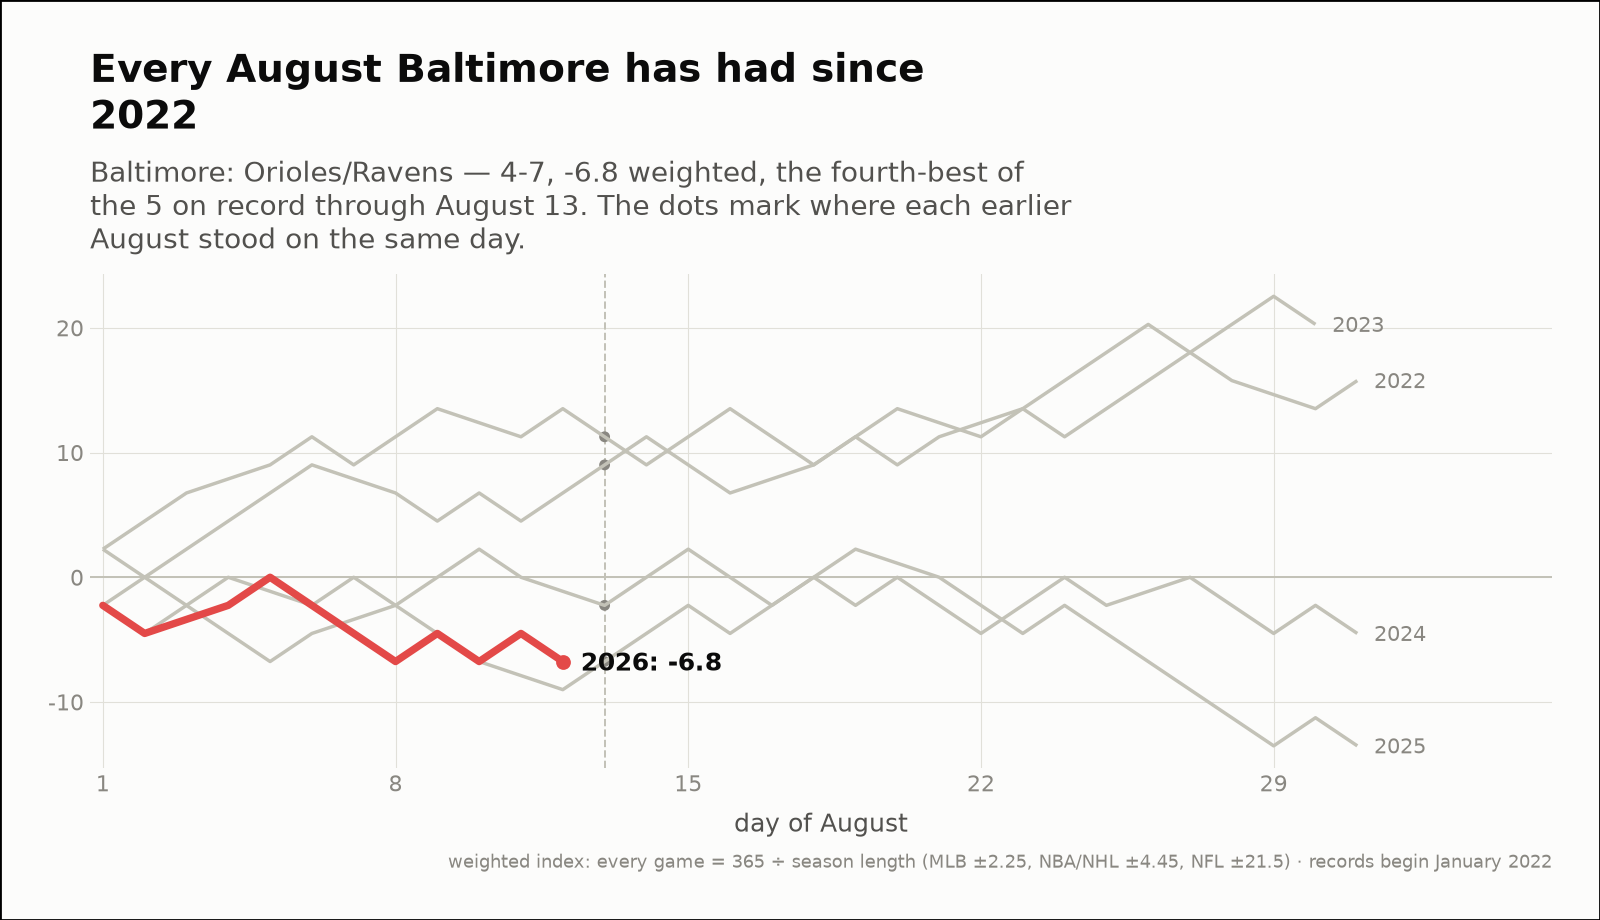
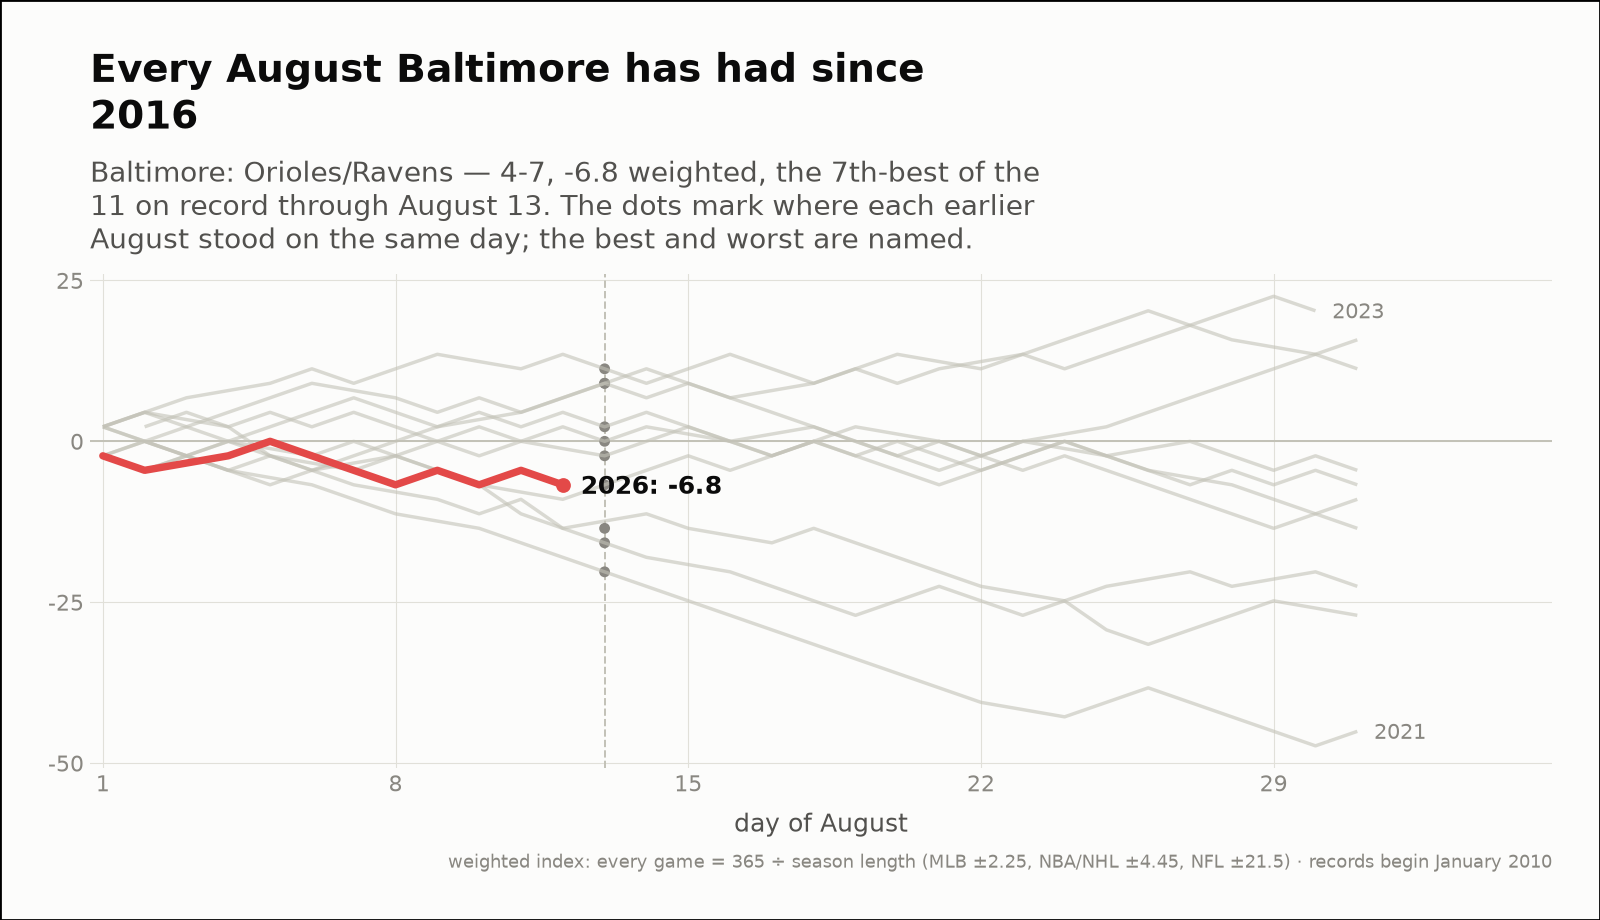
Reach the daily comparison charts back ten years, not to 2022
The scrapers have been writing since 2010 — 86,766 games across all four
leagues, complete except for the real interruptions (the 2011 NBA and
2012 NHL lockouts, the 2020 COVID seasons) — but season.png and month.png
only ever looked back to a hardcoded 2022, and every chart in the repo
carried a caption saying "records begin January 2022", which was simply
false. Both charts now use a rolling ten-year window off the reference
date, and the caption says 2010.

Ten gray lines needed two things the four did not:

    - year labels collide into unreadable overprints at the right edge
      (2015 and 2017 literally drew on top of each other), so past four
      past-years only the best and worst finishers are named. They bound
      the field, and the subtitle now says so rather than leaving a reader
      wondering why most of the gray is anonymous
    - a ten-line field competes with the line the chart is about, so it
      drops to 0.6 alpha once crowded. Four or fewer keep the old solid
      treatment and every label

The window is a rolling ten years off ref, not a new constant year, so it
does not quietly shorten as seasons pass. Checked that no group's draw
qualification changes between the four- and ten-year windows (0 of 88), so
replaying any past date still reproduces the city it published.

Leaves the weekly spotlight and streakiness charts on their own 2022 start:
those feed percentile claims and "best month on record" language, so
[…]

diff --git a/content/posts/2026-08-13/daily.html b/content/posts/2026-08-13/daily.html
@@ -41,11 +41,11 @@
       <dl>
         <div><dt>2026 so far</dt><dd>58-64, -32.7 weighted over 122 games; longest run 7 straight wins</dd></div>
         <div><dt>Order of results</dt><dd>about as clumped as coin flips (+0.2)</dd></div>
-        <div><dt>Earlier seasons (full-year weighted)</dt><dd>2022 +73.4, 2023 +233.7, 2024 +147.9, 2025 -5.6</dd></div>
+        <div><dt>Earlier seasons (full-year weighted)</dt><dd>2016 +33.8, 2017 -5.6, 2018 -67.3, 2019 +114.5, 2020 +63.4, 2021 -87.7, 2022 +73.4, 2023 +233.7, 2024 +147.9, 2025 -5.6</dd></div>
         <div><dt>Last 30 days</dt><dd>12-12, +0.0 weighted; longest run 3 straight wins</dd></div>
         <div><dt>Window opens</dt><dd>July 17, 2026</dd></div>
-        <div><dt>August 2026 through day 13</dt><dd>4-7, -6.8 weighted — the fourth-best of the 5 on record</dd></div>
-        <div><dt>Same August in earlier years (same stretch)</dt><dd>2022 +11.3, 2023 +9.0, 2024 -2.2, 2025 -6.8</dd></div>
+        <div><dt>August 2026 through day 13</dt><dd>4-7, -6.8 weighted — the 7th-best of the 11 on record</dd></div>
+        <div><dt>Same August in earlier years (same stretch)</dt><dd>2016 +0.0, 2017 +2.2, 2018 -13.5, 2019 -15.8, 2020 +9.0, 2021 -20.3, 2022 +11.3, 2023 +9.0, 2024 -2.2, 2025 -6.8</dd></div>
       </dl>
       <div class="table-wrap"><table><thead><tr><th>Team</th><th>Last 30 days</th><th>Weighted</th><th>Longest run</th></tr></thead><tbody><tr><td>Orioles</td><td>12-12</td><td>+0.0</td><td>3 straight wins</td></tr></tbody></table></div>
       <figure>

diff --git a/render_daily.py b/render_daily.py
@@ -32,10 +32,37 @@ log = logging.getLogger(__name__)
 
 TITLE_WRAP = 40
 SUBTITLE_WRAP = 68
+LABEL_ALL_UPTO = 4      # past-year lines past this get only their extremes named
 
 
 def accent(value: float) -> str:
     return HOT if value >= 0 else COLD
+
+
+def year_labels(ends):
+    """Which past-year lines get their year printed at the line's end.
+
+    A handful of them, all — there is room. Ten of them land on top of each
+    other at the right edge and print as garbage, so only the best and worst
+    finishers are named. They bound the field, which is what the field is for;
+    the lines between them are context, and context does not need every member
+    told apart. The current year is labelled separately and always.
+    """
+    if len(ends) <= LABEL_ALL_UPTO:
+        return ends
+    return ends.loc[[ends["cum"].idxmax(), ends["cum"].idxmin()]]
+
+
+def named_clause(past) -> str:
+    """Tell the reader why most of the gray has no year on it — but only when
+    that is actually the case."""
+    return "; the best and worst are named" if len(past) > LABEL_ALL_UPTO else ""
+
+
+def field_alpha(n: int) -> float:
+    """Four context lines can be solid; ten have to recede or they compete
+    with the one line the chart is actually about."""
+    return 1.0 if n <= LABEL_ALL_UPTO else 0.6
 
 
 def render_season(prof: dict, ref, path: str) -> None:
@@ -50,9 +77,10 @@ def render_season(prof: dict, ref, path: str) -> None:
     p = (
         ggplot()
         + geom_hline(yintercept=0, color=BASELINE, size=0.4)
-        + geom_line(past, aes("day", "cum", group="year"), color=FIELD, size=0.7)
-        + geom_text(ends, aes("day", "cum", label="year"), ha="left", va="center",
-                    nudge_x=4, color=MUTED, size=7.5)
+        + geom_line(past, aes("day", "cum", group="year"), color=FIELD, size=0.7,
+                    alpha=field_alpha(len(prof["past_seasons"])))
+        + geom_text(year_labels(ends), aes("day", "cum", label="year"), ha="left",
+                    va="center", nudge_x=4, color=MUTED, size=7.5)
         + geom_line(now, aes("day", "cum"), color=color, size=1.5, lineend="round")
         + geom_point(now.tail(1), aes("day", "cum"), color=color, size=3, stroke=0)
         + geom_text(now.tail(1), aes("day", "cum",
@@ -64,8 +92,10 @@ def render_season(prof: dict, ref, path: str) -> None:
                                    f"{prof['city']}'s other years", TITLE_WRAP),
                subtitle=textwrap.fill(
                    f"{prof['label']} — every game since January 1 added up, "
-                   f"through {ref.strftime('%B %-d')}. Earlier seasons run to the "
-                   "end of their year.", SUBTITLE_WRAP),
+                   f"through {ref.strftime('%B %-d')}, against the group's "
+                   f"{len(prof['past_seasons'])} earlier seasons. Those run to "
+                   f"the end of their year{named_clause(prof['past_seasons'])}.",
+                   SUBTITLE_WRAP),
                caption=CAPTION)
         + spotlight_theme()
         + theme(figure_size=(8, 4.6), axis_title=element_blank())
@@ -112,9 +142,10 @@ def render_month(prof: dict, ref, path: str) -> None:
         p = p + layer
     p = (
         p
-        + geom_line(past, aes("day", "cum", group="year"), color=FIELD, size=0.7)
-        + geom_text(ends, aes("day", "cum", label="year"), ha="left", va="center",
-                    nudge_x=0.4, color=MUTED, size=7.5)
+        + geom_line(past, aes("day", "cum", group="year"), color=FIELD, size=0.7,
+                    alpha=field_alpha(len(m["past"])))
+        + geom_text(year_labels(ends), aes("day", "cum", label="year"), ha="left",
+                    va="center", nudge_x=0.4, color=MUTED, size=7.5)
         + geom_line(now, aes("day", "cum"), color=color, size=1.5, lineend="round")
         + geom_point(now.tail(1), aes("day", "cum"), color=color, size=3, stroke=0)
         + geom_text(now.tail(1), aes("day", "cum",
@@ -136,11 +167,12 @@ def render_month(prof: dict, ref, path: str) -> None:
 def month_subtitle(prof: dict, ref) -> str:
     m = prof["month"]
     tie = f", {m['t']} tied" if m["t"] else ""
+    named = named_clause(m["past"])
     if m["in_progress"]:
         stretch = (f"through {m['name']} {m['cutoff']}. The dots mark where each "
-                   f"earlier {m['name']} stood on the same day.")
+                   f"earlier {m['name']} stood on the same day{named}.")
     else:
-        stretch = f"over the whole of {m['name']}."
+        stretch = f"over the whole of {m['name']}{named}."
     return (f"{prof['label']} — {m['w']}-{m['l']}{tie}, {m['weighted']:+.1f} "
             f"weighted, {standing(m['place'], m['field'])} on record {stretch}")
 

diff --git a/tests/test_render_daily.py b/tests/test_render_daily.py
@@ -7,7 +7,10 @@ most days have no game, some have two, and a tie has to leave the line alone.
 
 from datetime import date, timedelta
 
-from render_daily import form_frames, run_label, shape_reading
+import pandas as pd
+
+from render_daily import (field_alpha, form_frames, named_clause, run_label,
+                          shape_reading, year_labels)
 
 REF = date(2026, 8, 13)
 DAYS = 30
@@ -115,3 +118,31 @@ def test_the_shape_reading_only_claims_a_pattern_past_the_threshold():
     assert "alternated" in shape_reading(-2.4)
     assert "coin flips" in shape_reading(1.9)
     assert "too few" in shape_reading(None)
+
+
+# --- the past-year field on season.png and month.png -------------------------
+
+def ends_frame(finals):
+    return pd.DataFrame([{"year": str(2016 + i), "day": 300, "cum": v}
+                         for i, v in enumerate(finals)])
+
+
+def test_a_short_field_keeps_every_year_labelled():
+    ends = ends_frame([10.0, -4.0, 30.0])
+    assert list(year_labels(ends)["year"]) == ["2016", "2017", "2018"]
+    assert named_clause([0] * 3) == ""
+
+
+def test_a_deep_field_names_only_its_best_and_worst():
+    """Ten labels land on top of each other at the right edge, so the field
+    keeps its envelope named and drops the rest."""
+    ends = ends_frame([10.0, -4.0, 30.0, 5.0, -20.0, 1.0, 2.0, 3.0, 4.0, 6.0])
+    kept = year_labels(ends)
+
+    assert list(kept["cum"]) == [30.0, -20.0]
+    assert named_clause([0] * 10) == "; the best and worst are named"
+
+
+def test_the_field_recedes_only_once_it_is_crowded():
+    assert field_alpha(4) == 1.0
+    assert field_alpha(10) < 1.0

diff --git a/city_of_the_day.py b/city_of_the_day.py
@@ -55,7 +55,9 @@ log = logging.getLogger(__name__)
 DATA_DIR = "data"
 OUT_DIR = os.path.join("content", "daily")
 HISTORY_FILE = "history.json"
-HISTORY_START = 2022        # first season with score data
+HISTORY_YEARS = 10          # how far back the two comparison charts reach.
+                            # Scores go back to 2010, so this is a choice about
+                            # how much past is useful, not what exists on disk
 WINDOW_DAYS = 30            # the "recent games" window
 MIN_RECENT_GAMES = 6        # fewer than this and the tile chart has nothing to say
 MIN_SEASONS = 2             # earlier seasons needed for the comparison chart
@@ -97,7 +99,7 @@ def same_months(by_team: dict, group: dict, ref: date) -> dict:
     totals = tally(group_games(by_team, group, lo, hi))
 
     past = []
-    for year in range(HISTORY_START, ref.year):
+    for year in range(ref.year - HISTORY_YEARS, ref.year):
         p_lo, p_hi = mtd_window(year, ref.month, ref.day)
         to_date = tally(group_games(by_team, group, p_lo, p_hi))
         series = month_series(by_team, group, year, ref.month)
@@ -130,7 +132,7 @@ def profile(by_team: dict, group: dict, ref: date) -> dict:
     recent_results = [g["result"] for g in recent_games]
 
     past = []
-    for year in range(HISTORY_START, ref.year):
+    for year in range(ref.year - HISTORY_YEARS, ref.year):
         series = season_series(by_team, group, year)
         if series:
             past.append({"year": year, "series": series,

diff --git a/tests/test_city_of_the_day.py b/tests/test_city_of_the_day.py
@@ -162,6 +162,26 @@ def test_a_month_with_no_games_of_its_own_is_not_drawable():
     assert not month_drawable(prof)
 
 
+def test_the_comparison_reaches_ten_years_back_not_to_a_fixed_year():
+    """Scores go back to 2010, so the window is a rolling ten years off the
+    reference date — not a constant that quietly shortens as years pass."""
+    rows = []
+    for year in range(2016, 2027):
+        rows += march("STL", year, list("WWWWW"))
+    m = same_months(by_team_index(rows), ONE_TEAM, date(2026, 3, 10))
+
+    assert [p["year"] for p in m["past"]] == list(range(2016, 2026))
+    assert m["field"] == 11
+
+
+def test_years_outside_the_ten_year_window_are_left_out():
+    rows = march("STL", 2026, list("WWWWW")) + march("STL", 2015, list("WWWWW"))
+    rows += march("STL", 2016, list("WWWWW"))
+    m = same_months(by_team_index(rows), ONE_TEAM, date(2026, 3, 10))
+
+    assert [p["year"] for p in m["past"]] == [2016]      # 2015 is eleven back
+
+
 def test_standing_reads_the_ends_of_the_field_by_name():
     assert standing(1, 5) == "the best of the 5"
     assert standing(5, 5) == "the worst of the 5"

diff --git a/render_content.py b/render_content.py
@@ -64,7 +64,7 @@ MONTH_TICKS = ["Jan", "Feb", "Mar", "Apr", "May", "Jun",
                "Jul", "Aug", "Sep", "Oct", "Nov", "Dec"]
 
 CAPTION = ("weighted index: every game = 365 ÷ season length "
-           "(MLB ±2.25, NBA/NHL ±4.45, NFL ±21.5) · records begin January 2022")
+           "(MLB ±2.25, NBA/NHL ±4.45, NFL ±21.5) · records begin January 2010")
 TITLE_WRAP = 58      # characters before the title wraps to a second line
 SUBTITLE_WRAP = 84
 MONTHS = ["", "January", "February", "March", "April", "May", "June", "July",

diff --git a/README.md b/README.md
@@ -16,8 +16,8 @@ Default teams live in [`my_teams.json`](my_teams.json); the full team list (ESPN
 
 Every morning after the scrape, **[`city_of_the_day.py`](city_of_the_day.py)** draws one fandom at random and renders its season into [`content/daily/`](content/daily):
 
-- **`season.png`** — the group's cumulative weighted index this year against their own earlier seasons, day of year for day of year, so a bad start or a long climb shows up against the years that came before it
-- **`month.png`** — this calendar month against the same month in every earlier year (March 2026 against March 2025, 2024, 2023, 2022), added up day by day within the month; earlier years run the full month in gray, and while the current one is still being played a dashed line marks today with a dot on each earlier year showing where *it* stood on the same date — a half-played March is never ranked against four finished ones. Skipped when fewer than two earlier same-months are on record
+- **`season.png`** — the group's cumulative weighted index this year against their own **last 10 seasons**, day of year for day of year, so a bad start or a long climb shows up against the years that came before it. Past ten lines the year labels collide, so only the best and worst finishers are named and the rest stay an unlabelled gray field
+- **`month.png`** — this calendar month against the same month in each of the **last 10 years** (March 2026 against March 2025, 2024, … back to 2016), added up day by day within the month; earlier years run the full month in gray, and while the current one is still being played a dashed line marks today with a dot on each earlier year showing where *it* stood on the same date — a half-played March is never ranked against ten finished ones. Skipped when fewer than two earlier same-months are on record
 - **`form.png`** — the last 30 days as each team's running record against .500, one panel per team on a shared calendar, so every step up is a win and a run shows up as a climb; the panel heading carries the record, the weighted total and the longest run — the axis counts games, where an NFL win and an MLB win are the same step, so the heading is where the index reading lives — and the subtitle reads the order of results against chance (see streakiness below)
 - **`summary.md`** — the numbers behind all three, ready to paste
 

diff --git a/content/daily/summary.md b/content/daily/summary.md
@@ -3,11 +3,11 @@
 
 - **2026 so far:** 58-64, -32.7 weighted over 122 games; longest run 7 straight wins
 - **Order of results:** about as clumped as coin flips (+0.2)
-- **Earlier seasons (full-year weighted):** 2022 +73.4, 2023 +233.7, 2024 +147.9, 2025 -5.6
+- **Earlier seasons (full-year weighted):** 2016 +33.8, 2017 -5.6, 2018 -67.3, 2019 +114.5, 2020 +63.4, 2021 -87.7, 2022 +73.4, 2023 +233.7, 2024 +147.9, 2025 -5.6
 - **Last 30 days:** 12-12, +0.0 weighted; longest run 3 straight wins
 - **Window opens:** July 17, 2026
-- **August 2026 through day 13:** 4-7, -6.8 weighted — the fourth-best of the 5 on record
-- **Same August in earlier years (same stretch):** 2022 +11.3, 2023 +9.0, 2024 -2.2, 2025 -6.8
+- **August 2026 through day 13:** 4-7, -6.8 weighted — the 7th-best of the 11 on record
+- **Same August in earlier years (same stretch):** 2016 +0.0, 2017 +2.2, 2018 -13.5, 2019 -15.8, 2020 +9.0, 2021 -20.3, 2022 +11.3, 2023 +9.0, 2024 -2.2, 2025 -6.8
 
 | Team | Last 30 days | Weighted | Longest run |
 |---|---|---|---|
